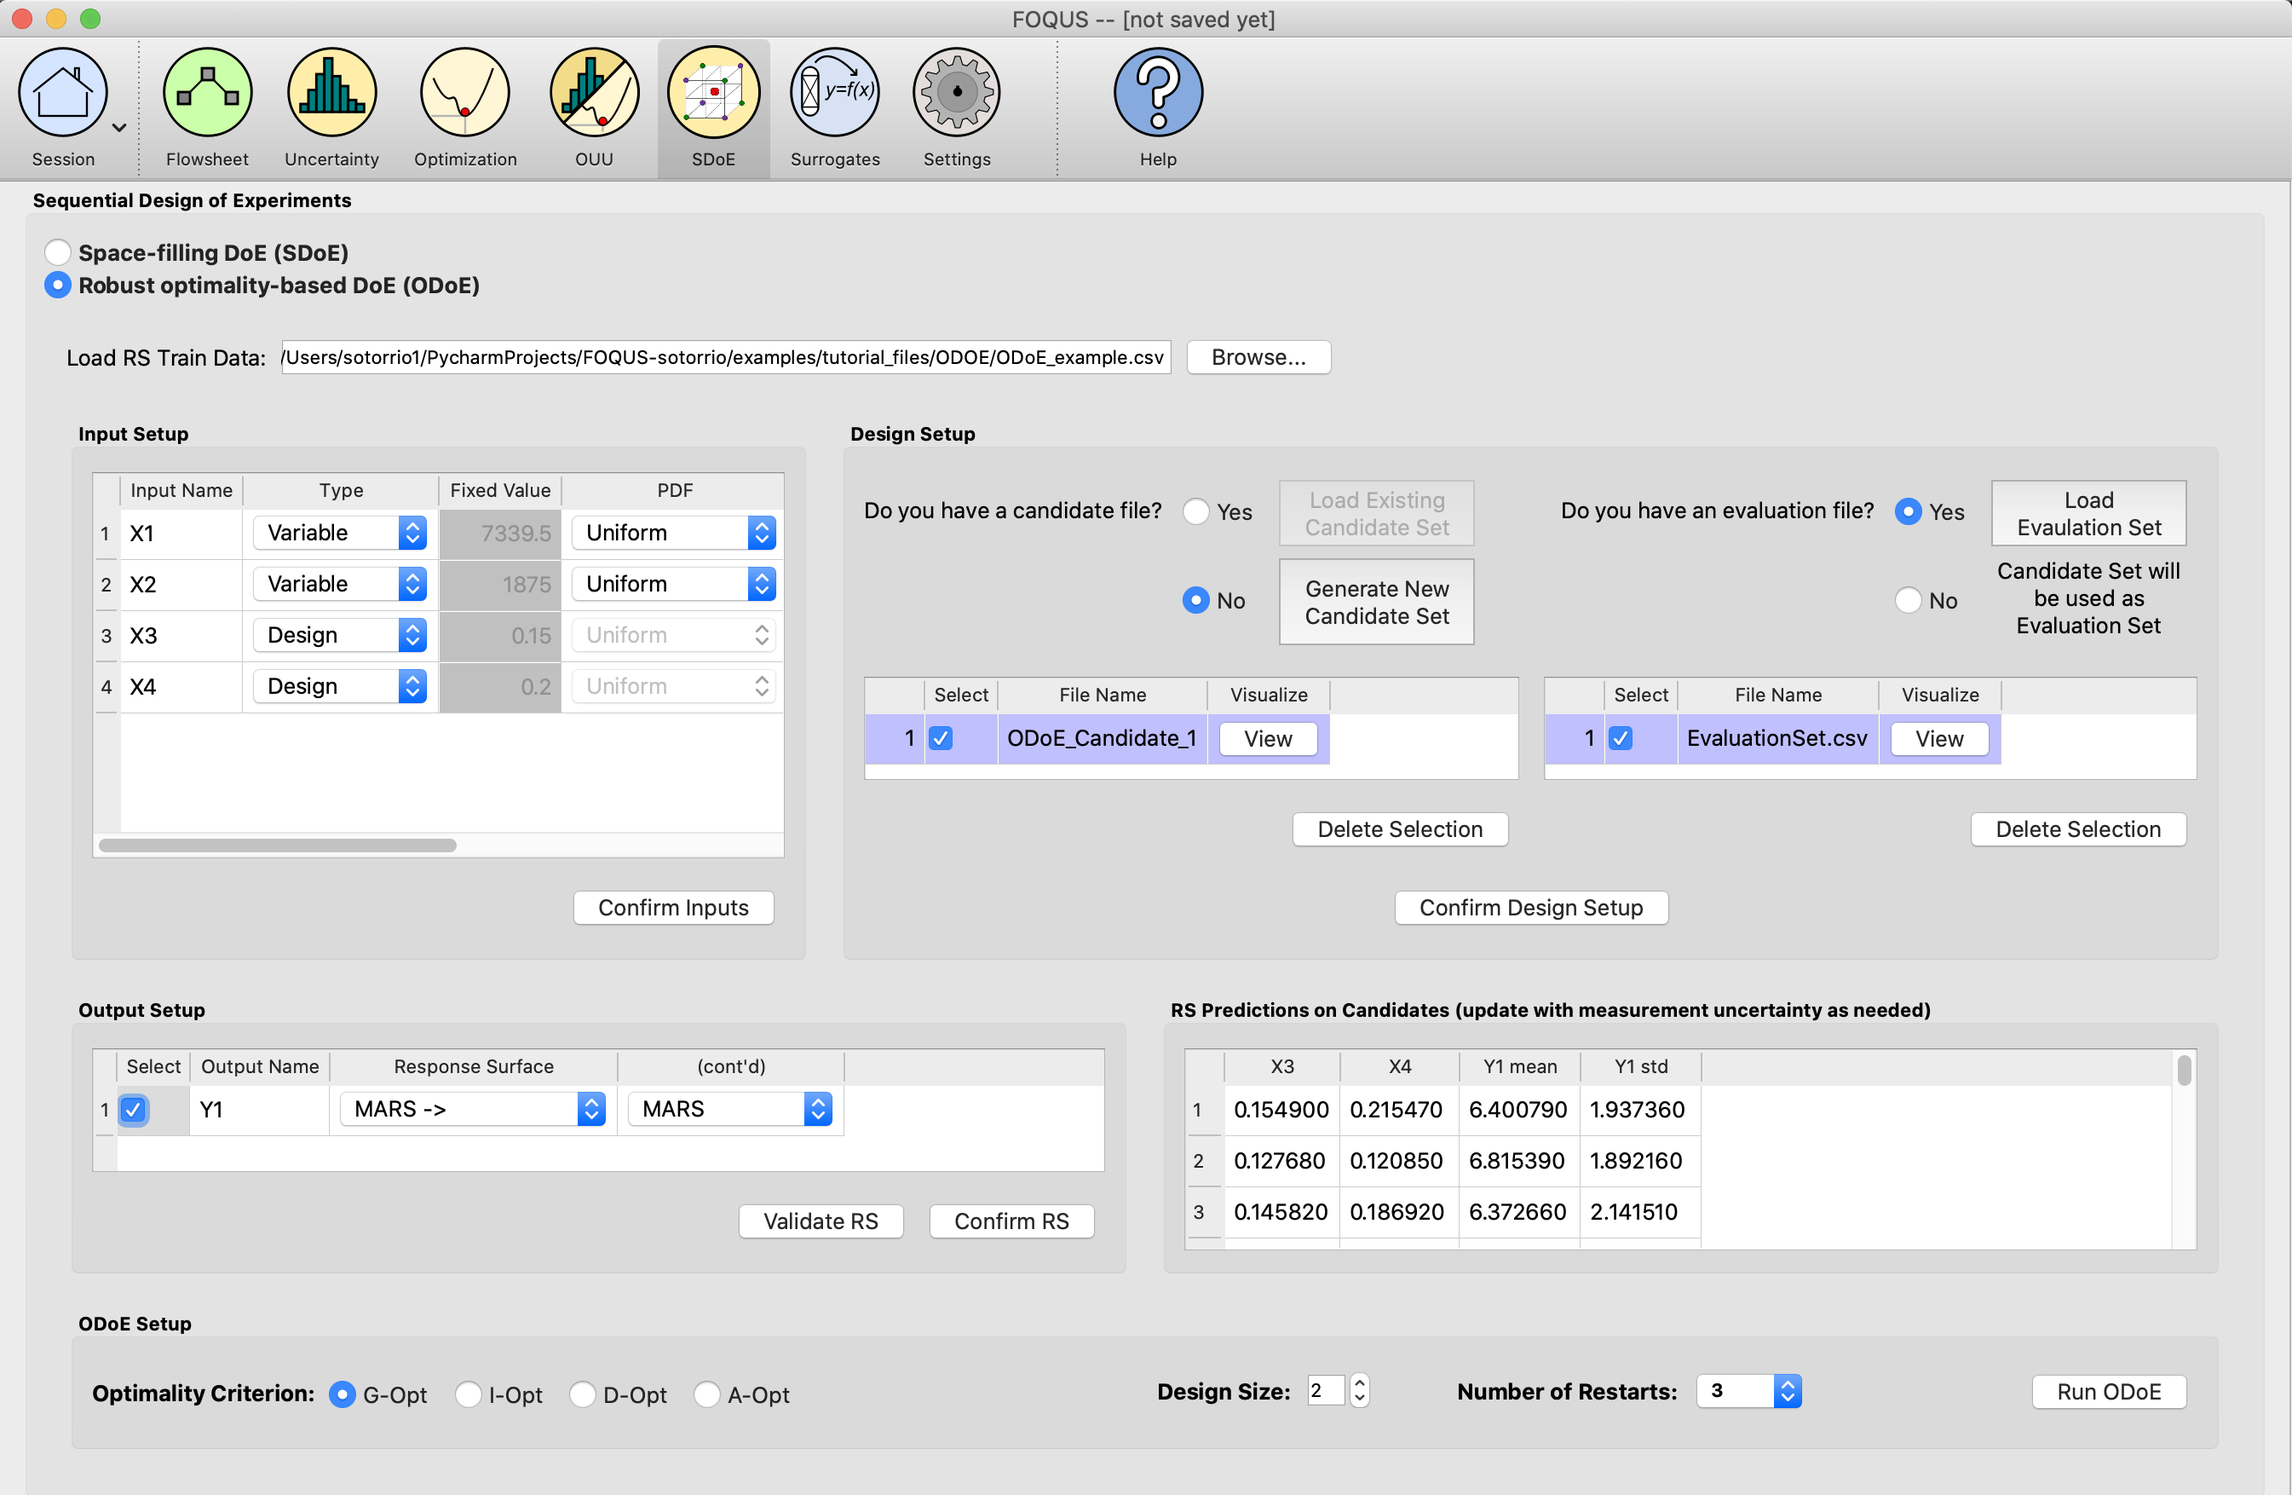
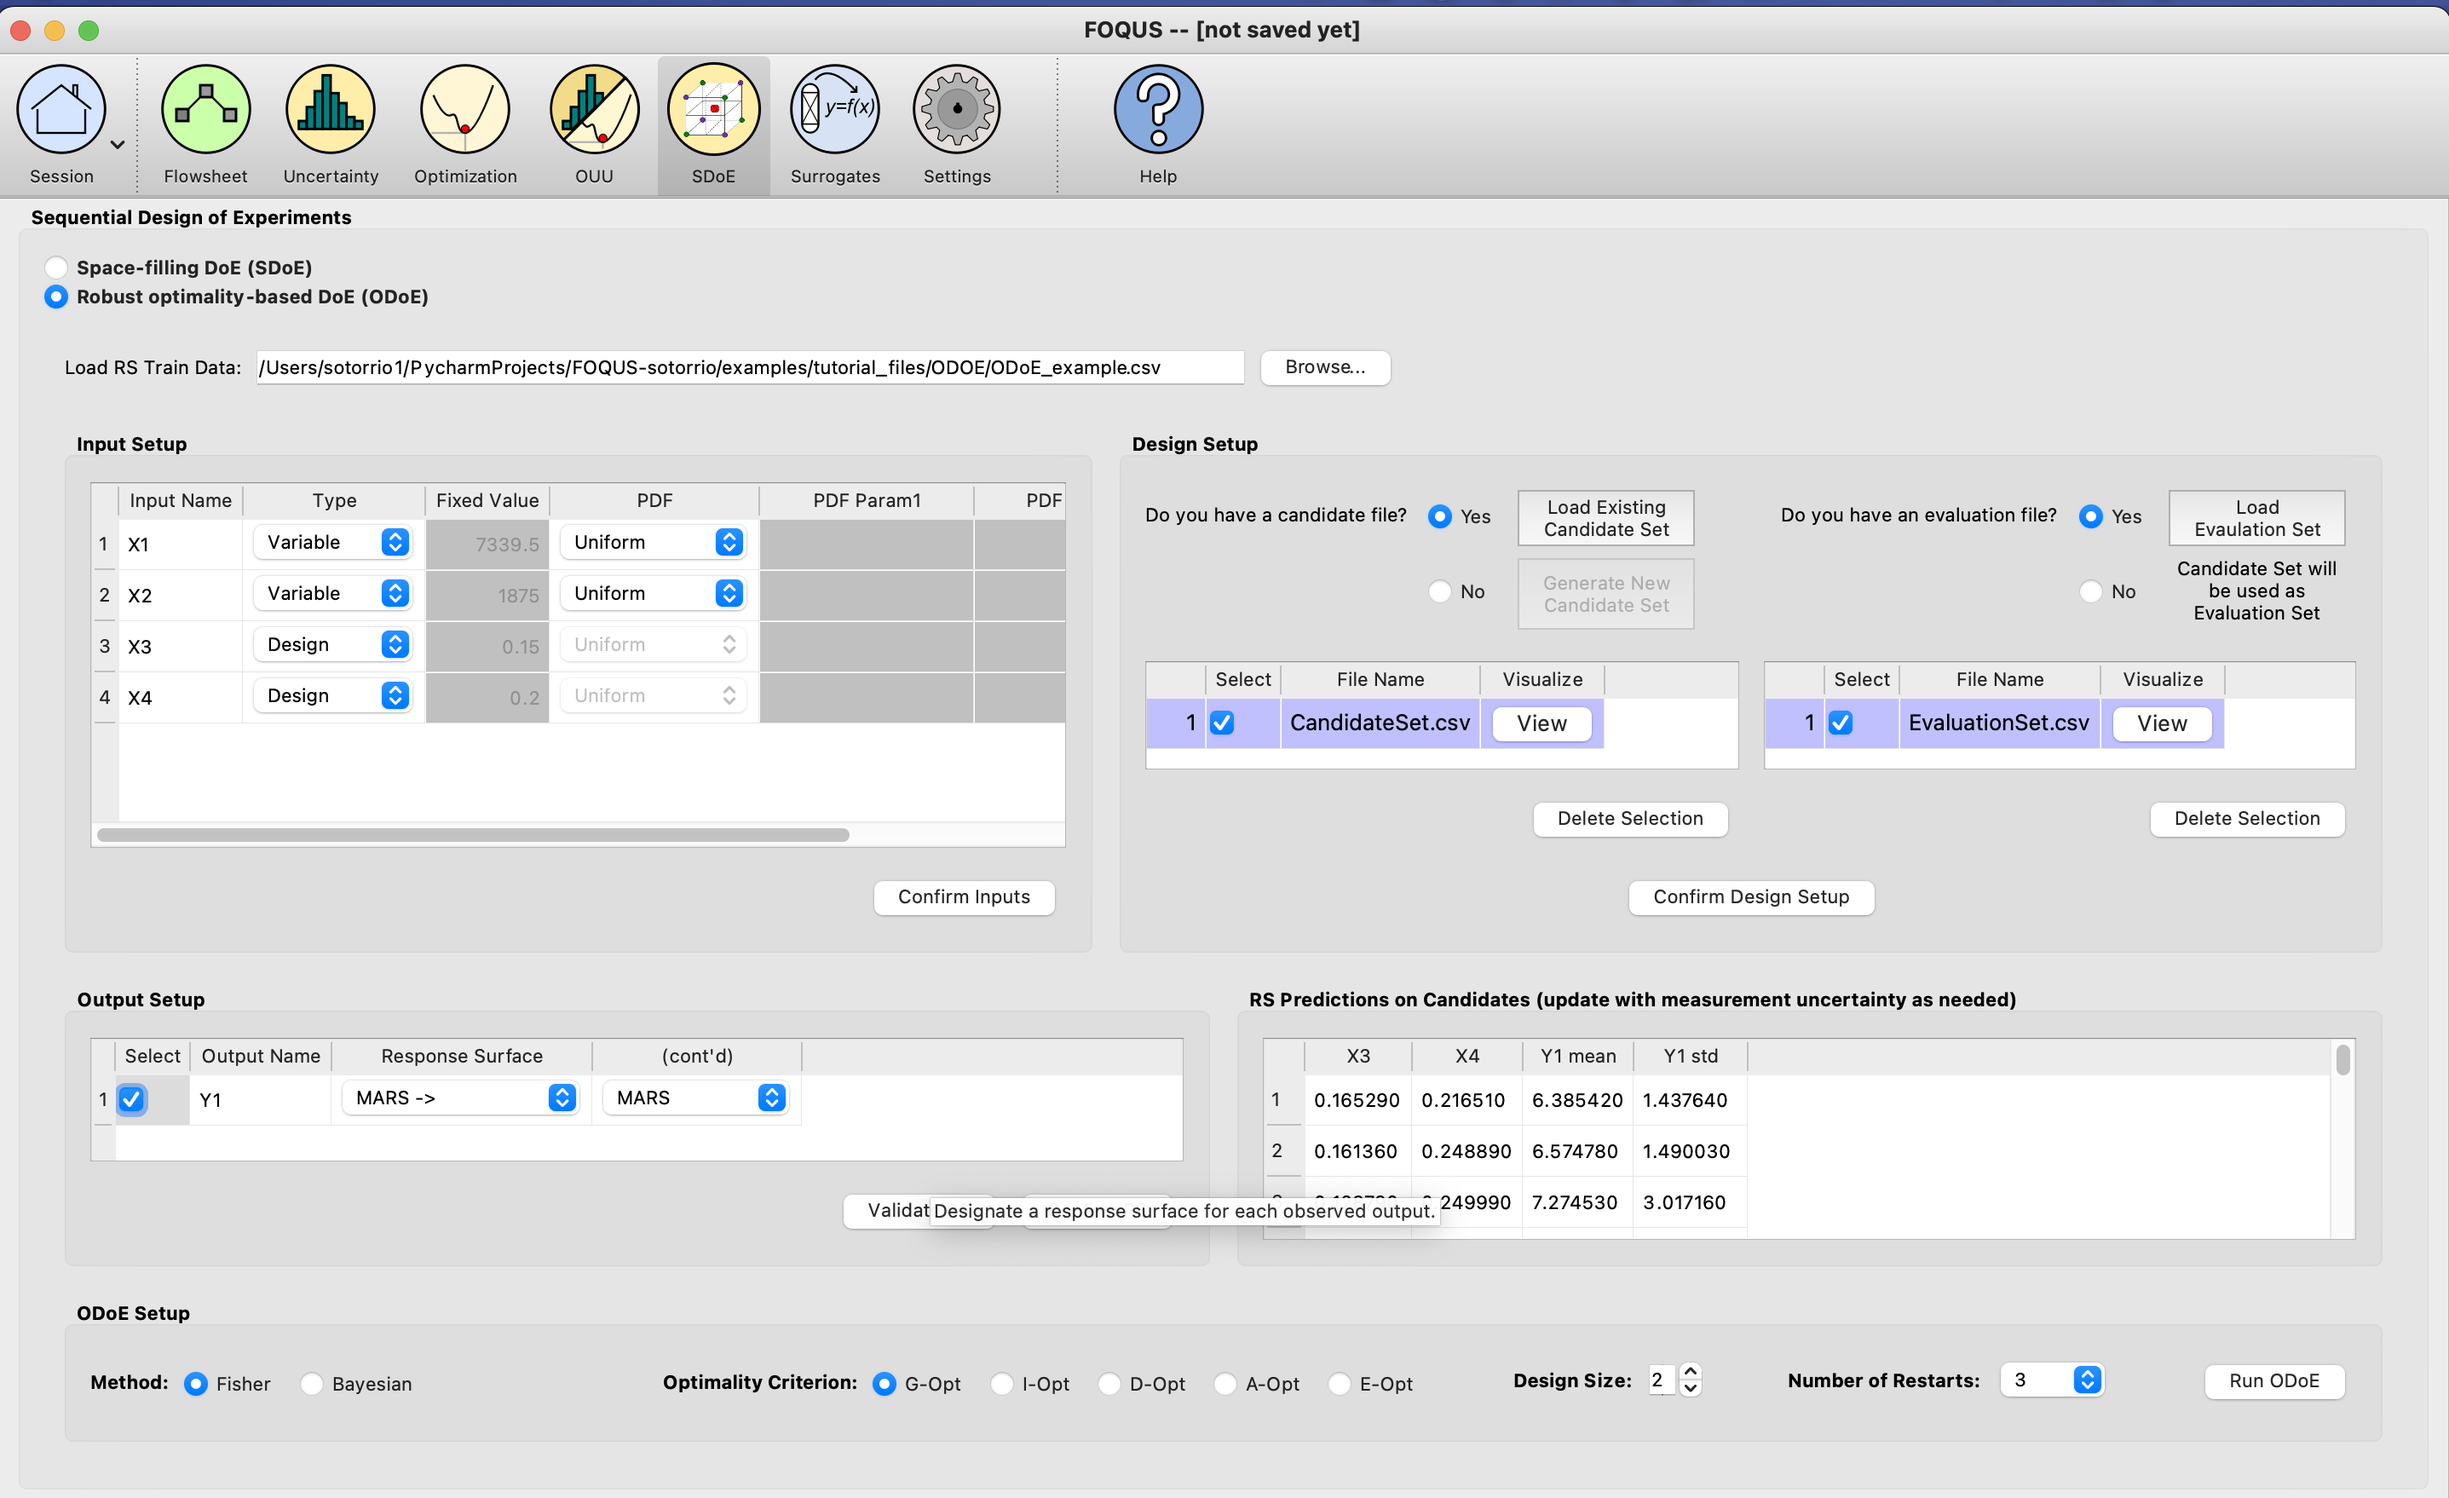
update ODoE tutorials to reflect the latest changes where user needs to pick a method and there is a new optimality criterion (E-Opt) offered.

diff --git a/docs/source/chapt_odoe/tutorial-createcand.rst b/docs/source/chapt_odoe/tutorial-createcand.rst
@@ -123,9 +123,9 @@ In this example, the user will generate a new candidate set.
 #. Click on the **Confirm Design Setup** button and under the **Output Setup** section, select
    **MARS** in the **Response Surface** dropdown menu.
 
-   .. figure:: figs/10_ODoE_outputSetup.png
+   .. figure:: figs/10b_ODoE_outputSetup.png
       :alt: ODoE Output Setup - MARS
-      :name: fig.ODoE_outputSetup2
+      :name: fig.ODoE_outputSetup2_1
 
       ODoE Output Setup - MARS
 
@@ -149,13 +149,13 @@ In this example, the user will generate a new candidate set.
    **RS Predictions on Candidates**. The user can edit the **mean** and **standard deviation**
    columns in this table as needed.
 
-   .. figure:: figs/13_ODoE_RSConfirmed.png
+   .. figure:: figs/13b_ODoE_RSConfirmed.png
       :alt: ODoE Response Surface Confirmed and Predictions Generated
-      :name: fig.ODoE_RSConfirmed2
+      :name: fig.ODoE_RSConfirmed2_1
 
       ODoE Response Surface Confirmed and Predictions Generated
 
-#. Under ODoE Setup select the **Optimality Criterion** (in this case G-Opt), **Design Size**
+#. Under ODoE Setup select the **Method** (in this case Fisher), the **Optimality Criterion** (in this case G-Opt), **Design Size**
    (in this case 2) and **Number of Restarts** (in this case 3).
 
    The choice of optimality criterion to use for design construction is driven by the objectives of the

diff --git a/docs/source/chapt_odoe/tutorial-loadcand.rst b/docs/source/chapt_odoe/tutorial-loadcand.rst
@@ -142,7 +142,7 @@ In this example, the user will provide an existing candidate set.
 
       ODoE Response Surface Confirmed and Predictions Generated
 
-#. Under ODoE Setup select the **Optimality Criterion** (in this case G-Opt), **Design Size**
+#. Under ODoE Setup select the **Method** (in this case Fisher), the **Optimality Criterion** (in this case G-Opt), **Design Size**
    (in this case 2) and **Number of Restarts** (in this case 3).
 
    The choice of optimality criterion to use for design construction is driven by the objectives of the
